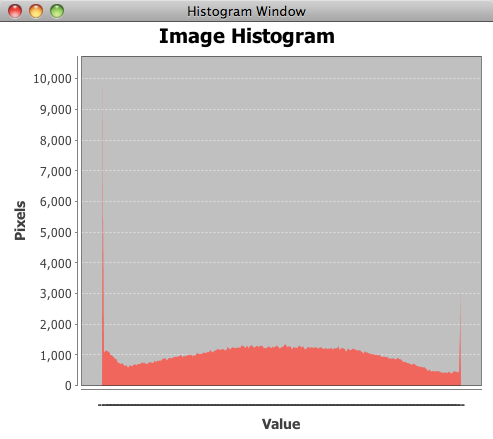
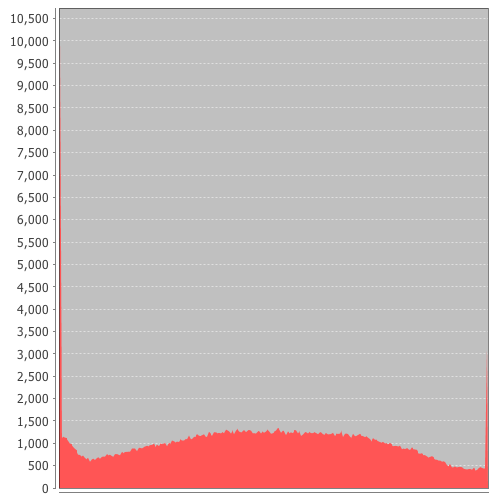
Better histogram images.

Changed region(s): [[0.0, 0.0, 1.0, 1.0]]

diff --git a/report/report.tex b/report/report.tex
@@ -2420,8 +2420,12 @@ an uses the charting DSL to draw an area diagram of its data. An
 implicit conversion creates the dataset needed for the charting DSL,
 counting pixels of the various values, thus resulting in a sort of
 histogram over the various gray values found in the picture. Figure
-\vref{fig:iphistogram} shows the image used together with the
-histogram produced.
+\vref{fig:iphistogram} shows two images together with their
+histograms, produced with the given code. As we can see, histograms
+are a useful visalization of the pixel distribution in an image. The
+low contrast of the first image is clearly shown with a narrow peak in
+the histogram, while the better contrast of the second image is shown
+with a more evenly distributed histogram.
 
 \begin{lstlisting}[float,caption=Scala image histogram example,label=lst:scalaipchart]
 val img = loadImageCP("/numbers.png")
